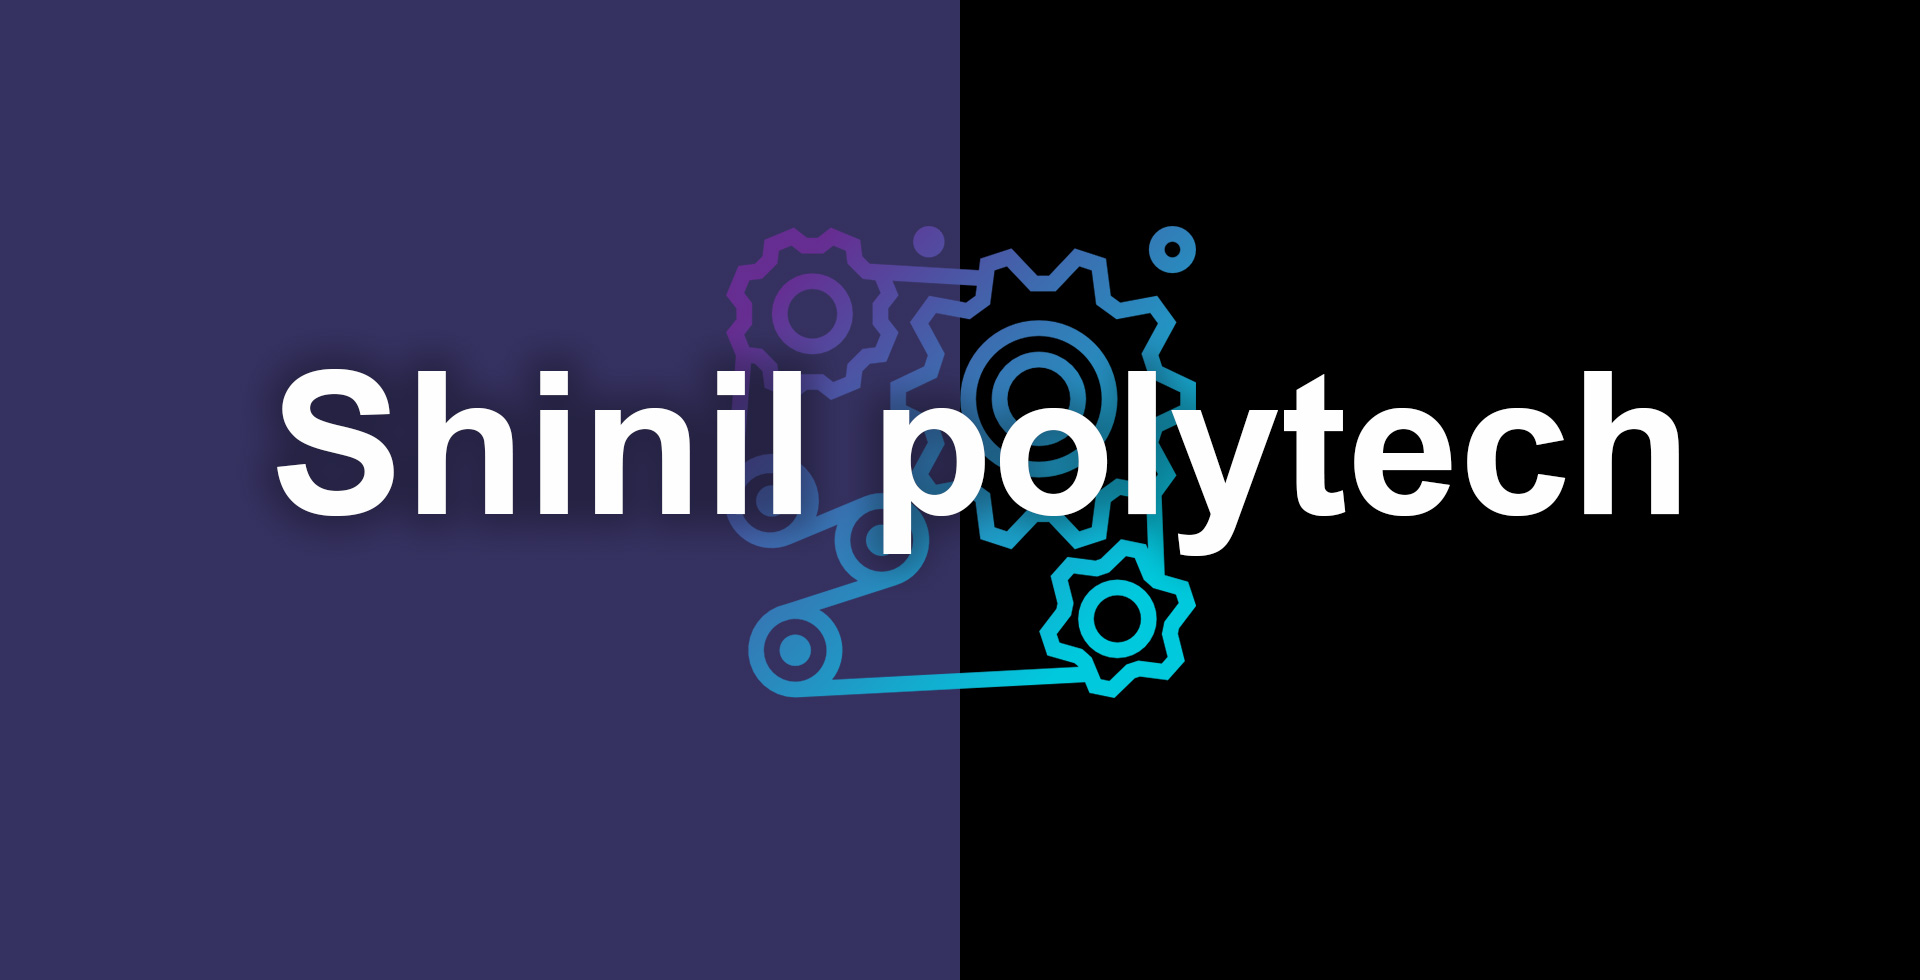
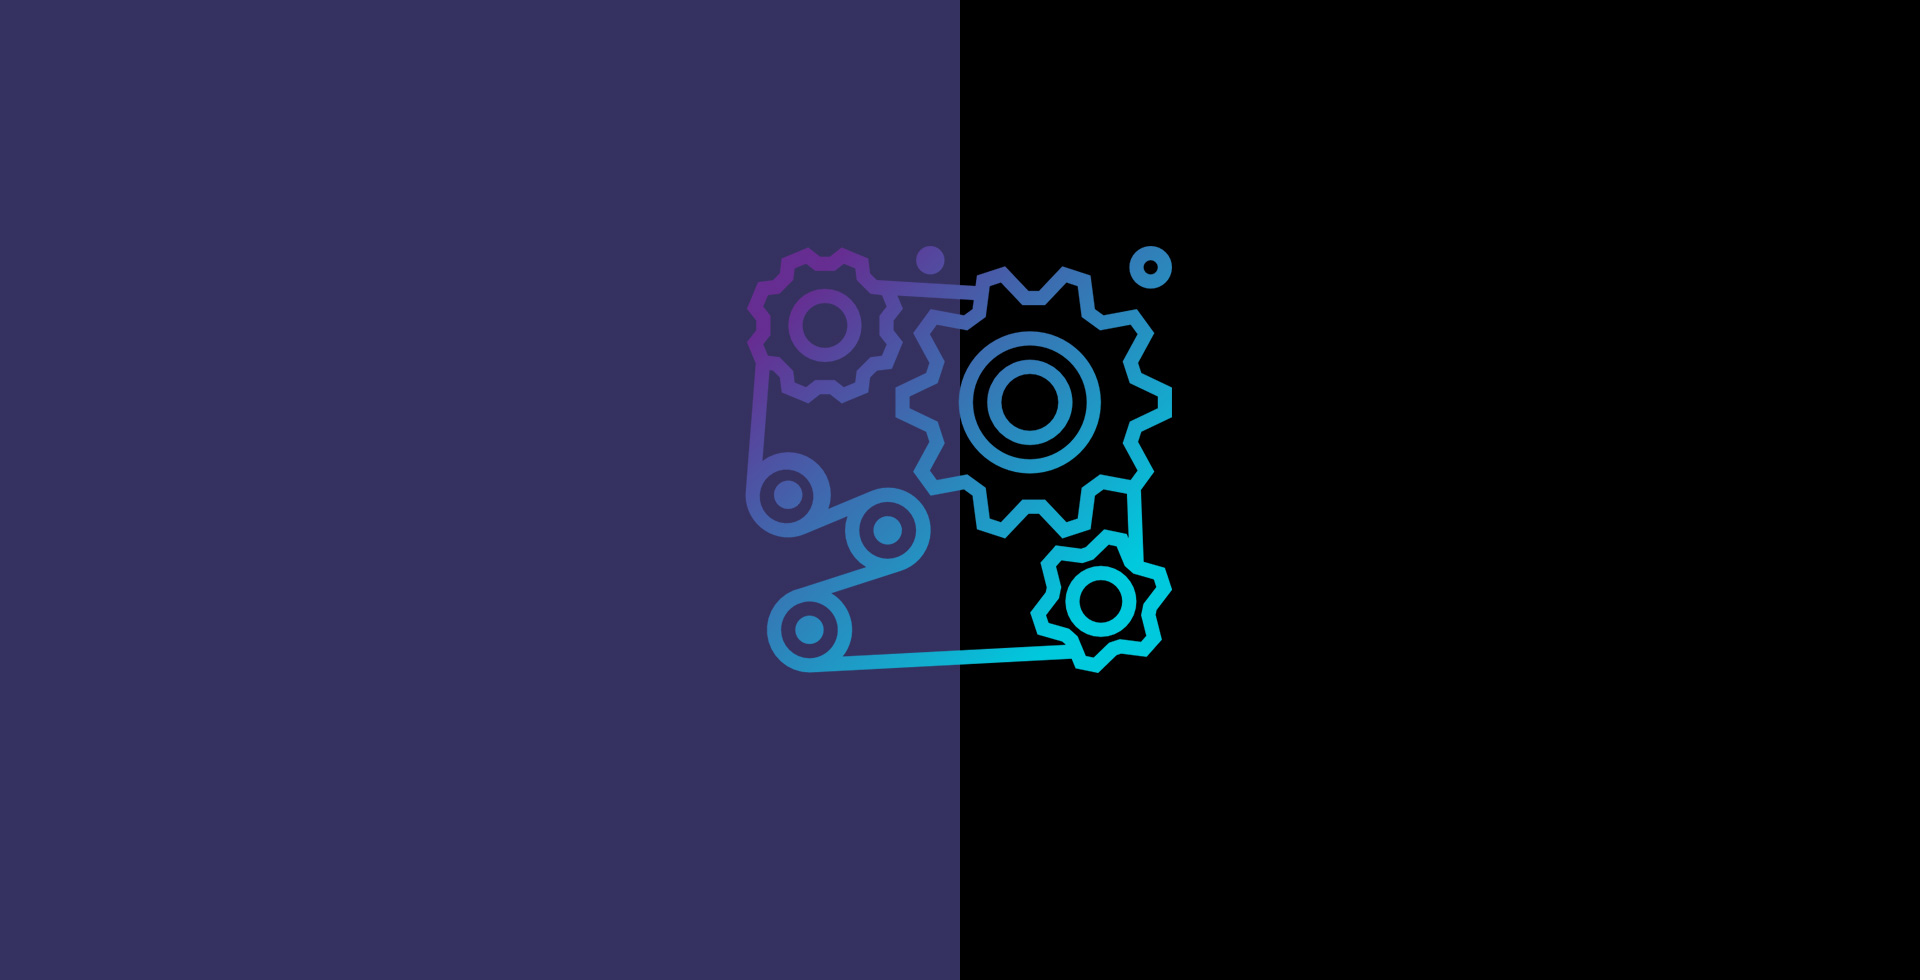
20.05.28.11.38

Changed region(s): [[0.125, 0.2143, 0.875, 0.7347]]

diff --git a/asset/css/portfolio_Shinil.css b/asset/css/portfolio_Shinil.css
@@ -29,11 +29,11 @@ header nav ul li:nth-of-type(1) a::after{
     text-align: center;
     padding: 4.125em;
 }
-.shinil_summary h2{
+.shinil_summary h3{
     font-size: 1.125rem;
     color: #433ba4;
 }
-.shinil_summary h2::after{
+.shinil_summary h3::after{
     content: '';
     width: 50px; height: 1px;
     margin: 8px auto 28px;

diff --git a/asset/css/total/scroll_down.css b/asset/css/total/scroll_down.css
@@ -7,12 +7,13 @@
 .scroll_down{
     position: absolute;
     left: 50%; bottom: 12%;
-    transform: translateX(-72%);
+    transform: translateX(-86%);
     width: 24px;
     height: 24px;
 }
 .chevron {
     position: absolute;
+    left: 10%;
     width: 36px;
     height: 8px;
     opacity: 0;

diff --git a/asset/css/integrated_sub.css b/asset/css/integrated_sub.css
@@ -2,5 +2,6 @@
 @import url('total/font.css');
 @import url('total/header.css');
 @import url('total/buger.css');
+@import url('total/visual_h2.css');
 @import url('total/scroll_down.css');
 @import url('total/footer.css');

diff --git a/asset/php/portfolio_Shinil.php b/asset/php/portfolio_Shinil.php
@@ -19,6 +19,10 @@
 
     <div class="container">
         <section class="shinil_visual parents">
+            <h2>
+                <span>Shinil</span>
+                <span>polytech</span>
+            </h2>
             <p><img src="../img/shinil/shinil_visual.jpg" alt="shinil img"></p>
             <div class="scroll_down">
                 <div class="chevron"></div>
@@ -28,7 +32,7 @@
             </div>
         </section>
         <section class="shinil_summary">
-            <h2>THE PROJECT</h2>
+            <h3>THE PROJECT</h3>
             <p>
                 <span>Shinil polytech</span>
                 프로젝트는 그린컴퓨터 아카데미 수강생 조별과제로써, 기존 홈페이지를
